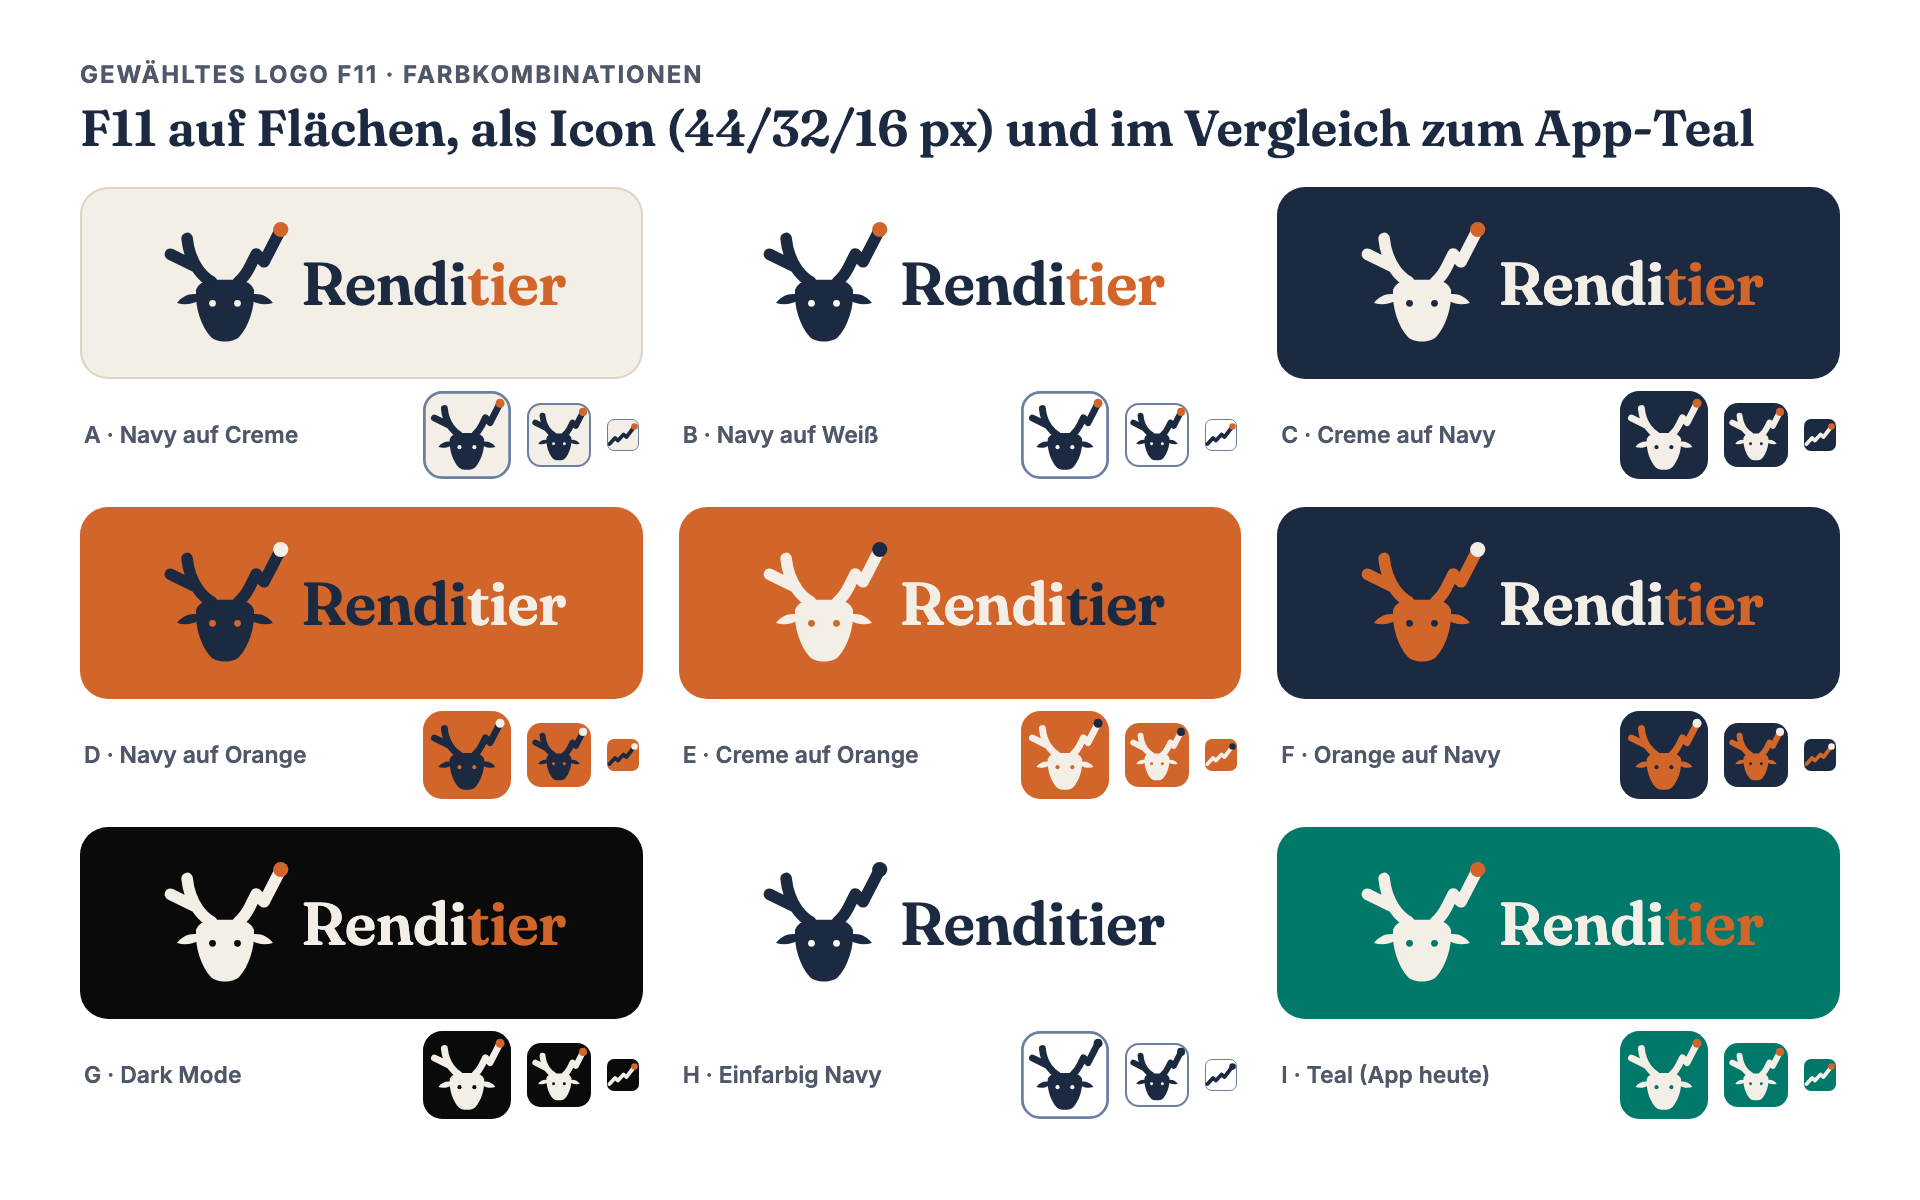
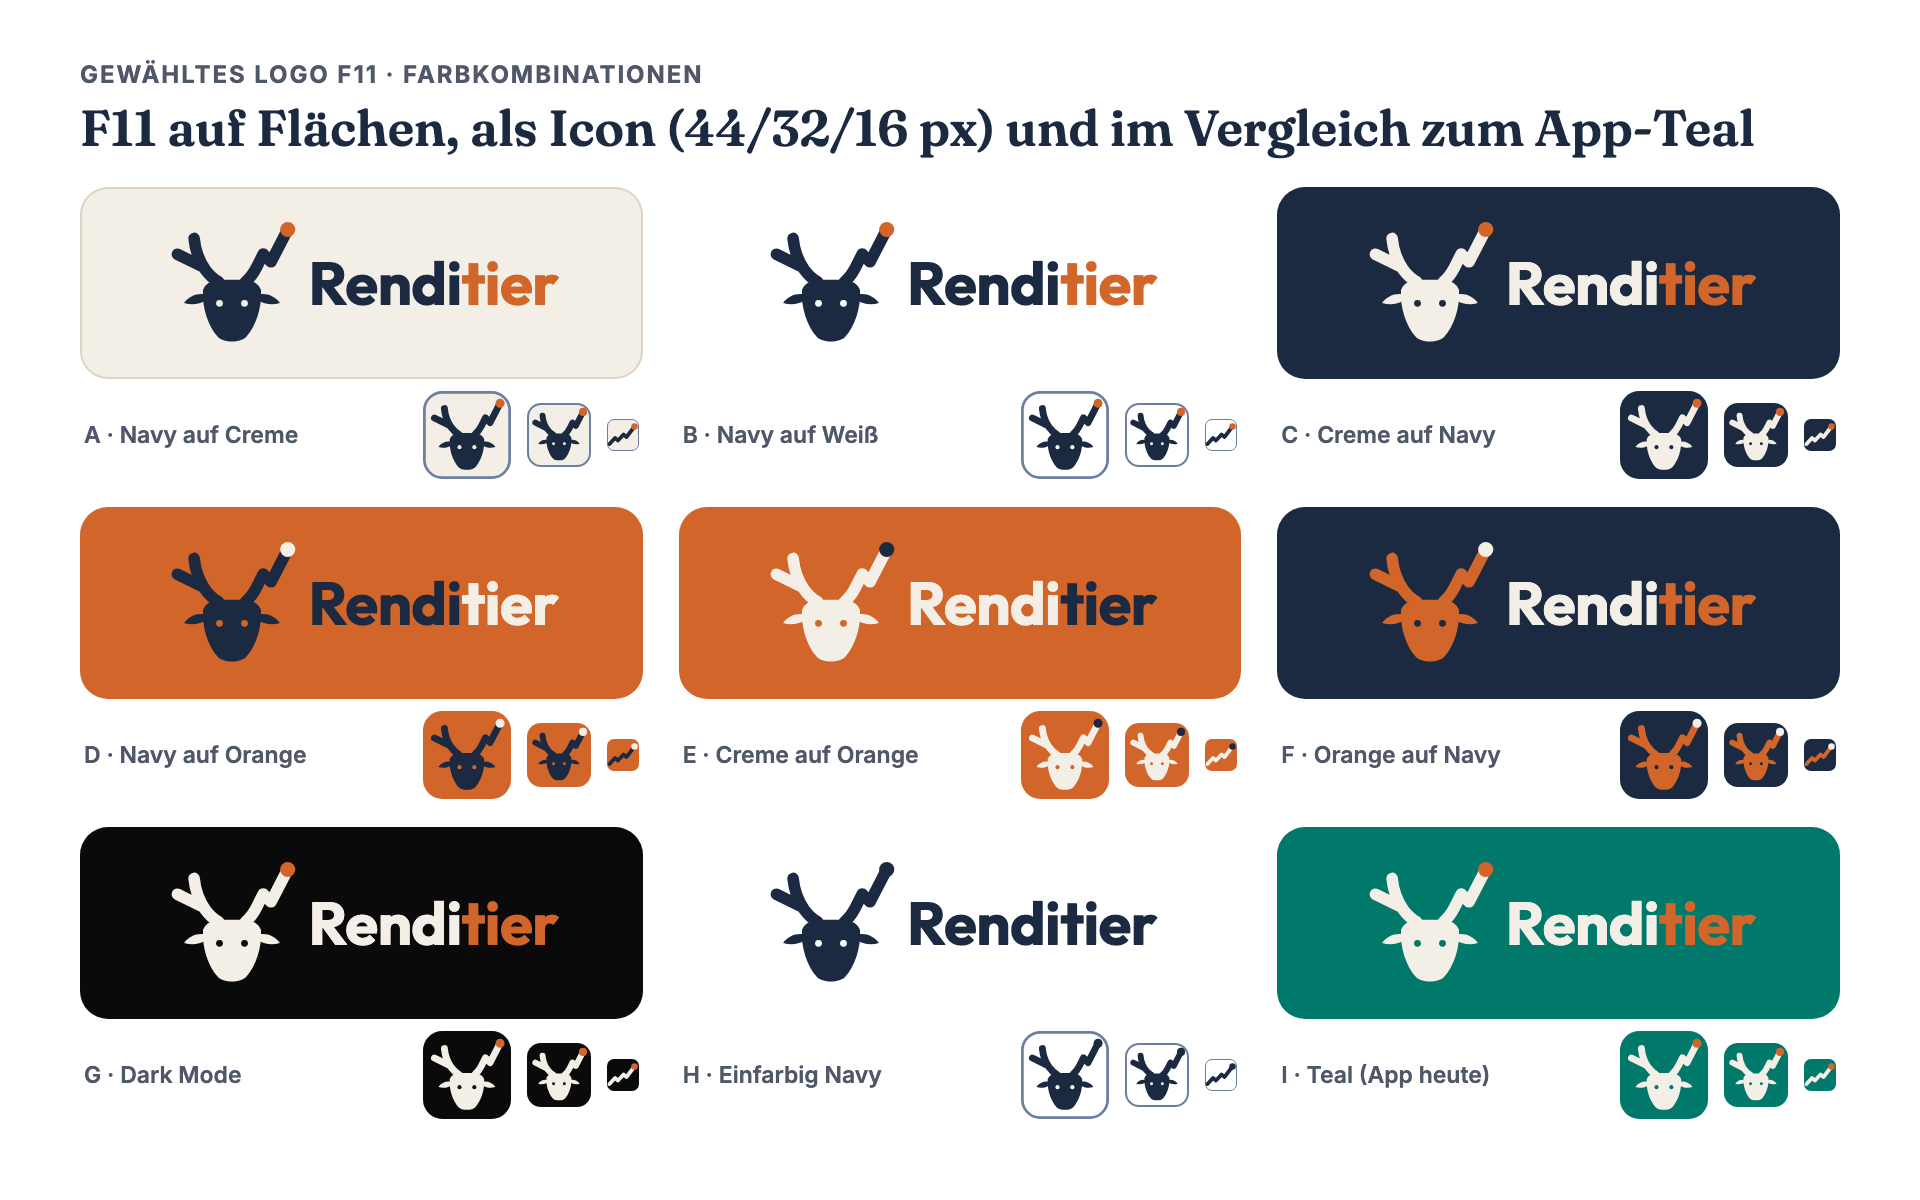
Set the wordmark in Outfit 700
Chosen from the wordmark specimen (O3). Lockups and mockups are
re-rendered with it.

Claude-Session: https://claude.ai/code/session_01Gv2aUyJeePQox3opTLMqiQ

diff --git a/docs/brand/styleguide.md b/docs/brand/styleguide.md
@@ -30,7 +30,7 @@ line that breaks out to a new high, marked by the orange dot.
 | `icons/icon-{96,192,512}.png` | PWA manifest icons |
 
 The eyes in the mark are holes, so it works on any background colour. The lockups are PNG because
-the wordmark is set in Fraunces. A vector lockup needs the text converted to outlines (see
+the wordmark is set in Outfit. A vector lockup needs the text converted to outlines (see
 [migration](migration.md)).
 
 ### Sizes
@@ -101,7 +101,7 @@ All text pairs above reach at least 4.5:1 on their background.
 
 | Use | Typeface |
 | --- | --- |
-| Wordmark | Fraunces 600, letter spacing -0.01em, "Rendi" in navy (cream on dark), "tier" in orange |
+| Wordmark | Outfit 700, letter spacing -0.01em, "Rendi" in navy (cream on dark), "tier" in orange |
 | UI | Geist (already the app font) |
 
-Fraunces is for the wordmark only. Don't set UI headings in it.
+At 700, the geometric strokes of Outfit match the antler.

diff --git a/docs/brand/migration.md b/docs/brand/migration.md
@@ -82,9 +82,9 @@ Other places:
 
 ## 4. Wordmark
 
-The lockups are PNG for now because the wordmark is set in Fraunces. For the app, convert "Renditier"
+The lockups are PNG for now because the wordmark is set in Outfit. For the app, convert "Renditier"
 to outlined paths and ship one SVG lockup (light and dark via `currentColor` for "Rendi"). That avoids
-loading Fraunces just for one word.
+loading Outfit just for one word.
 
 ## 5. Dev shell banner
 
